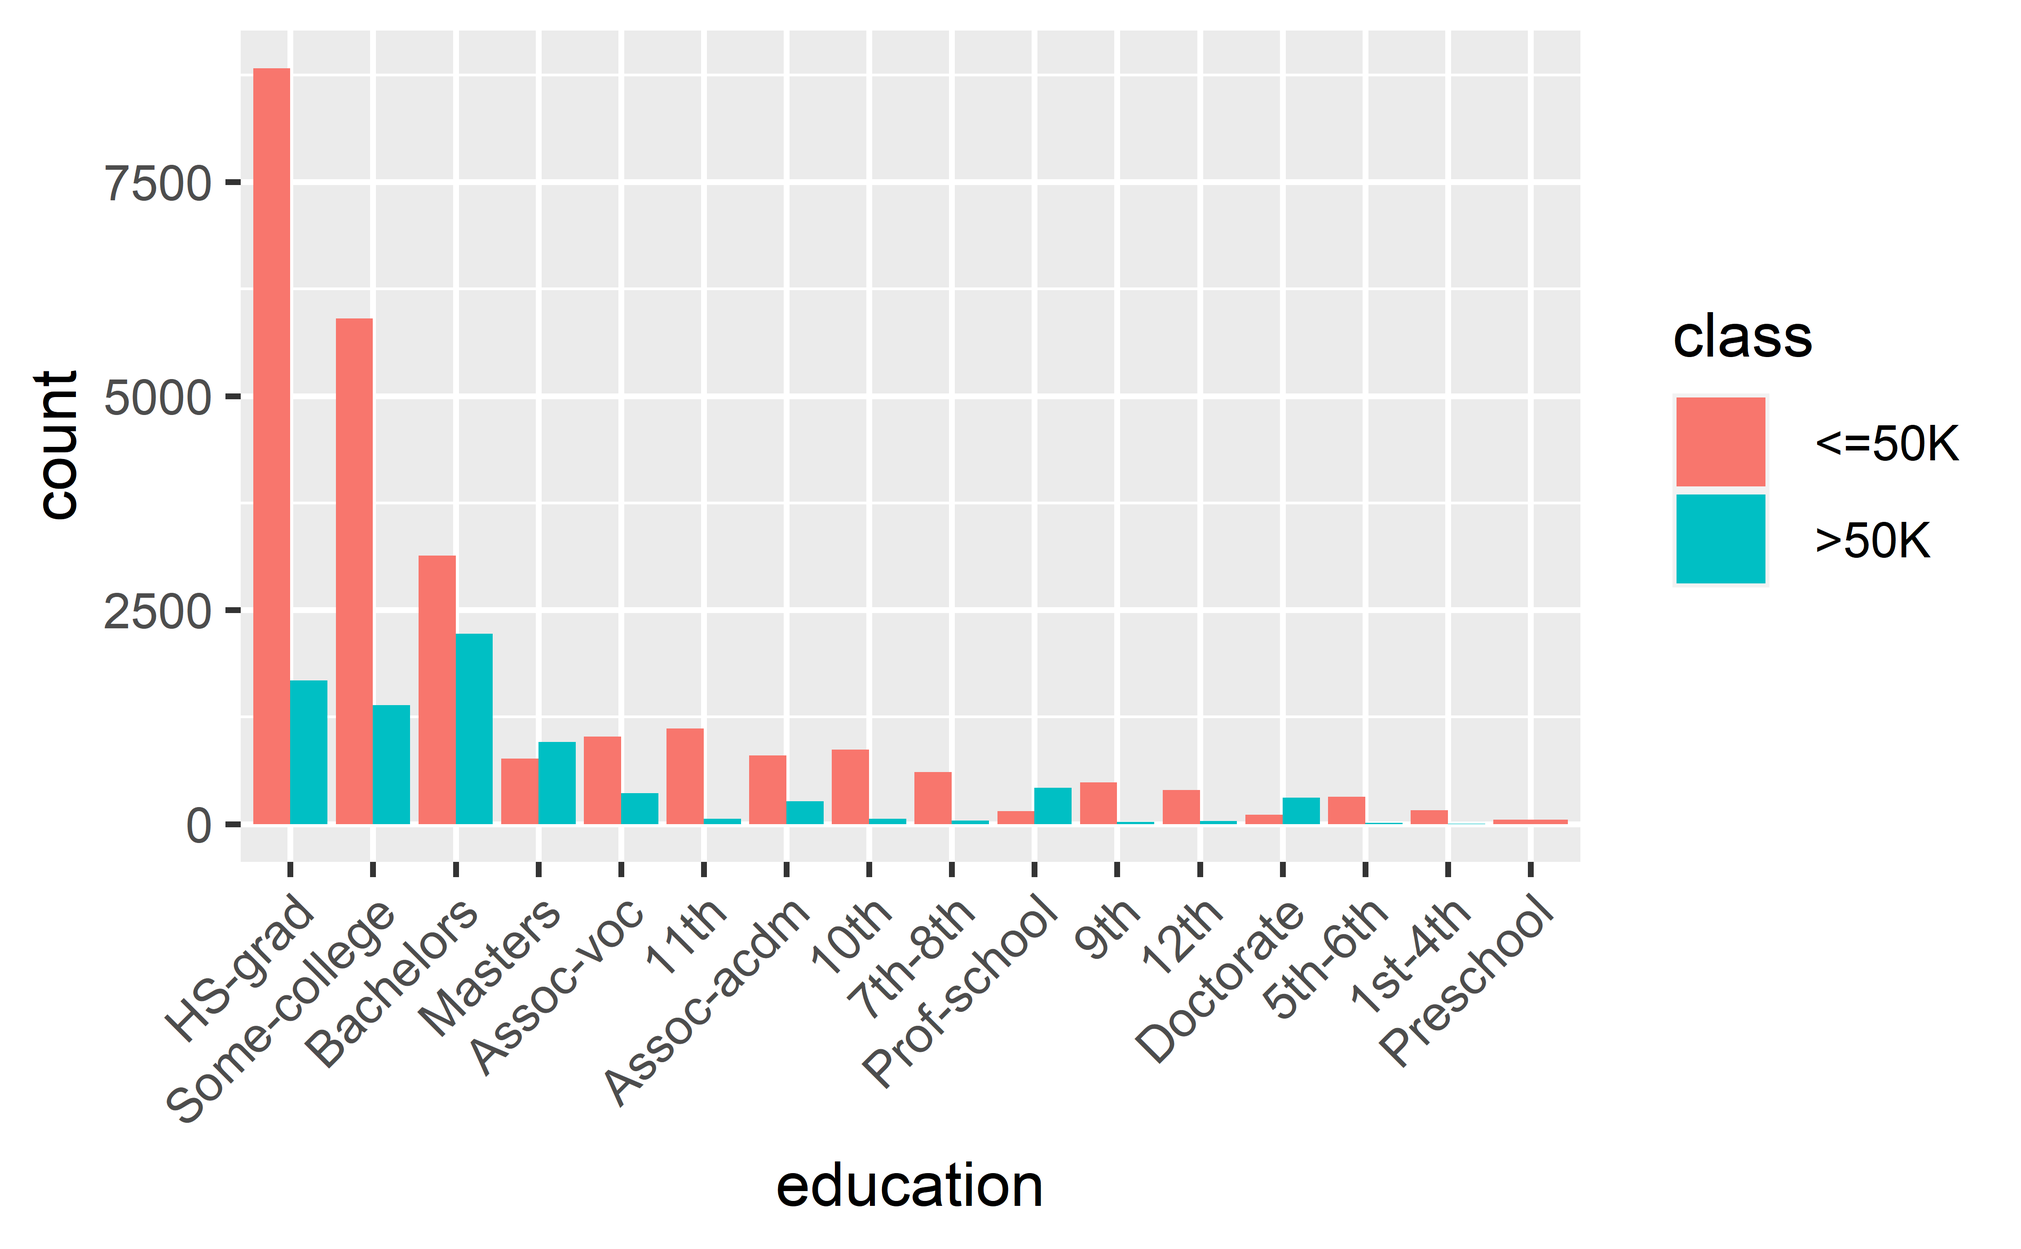
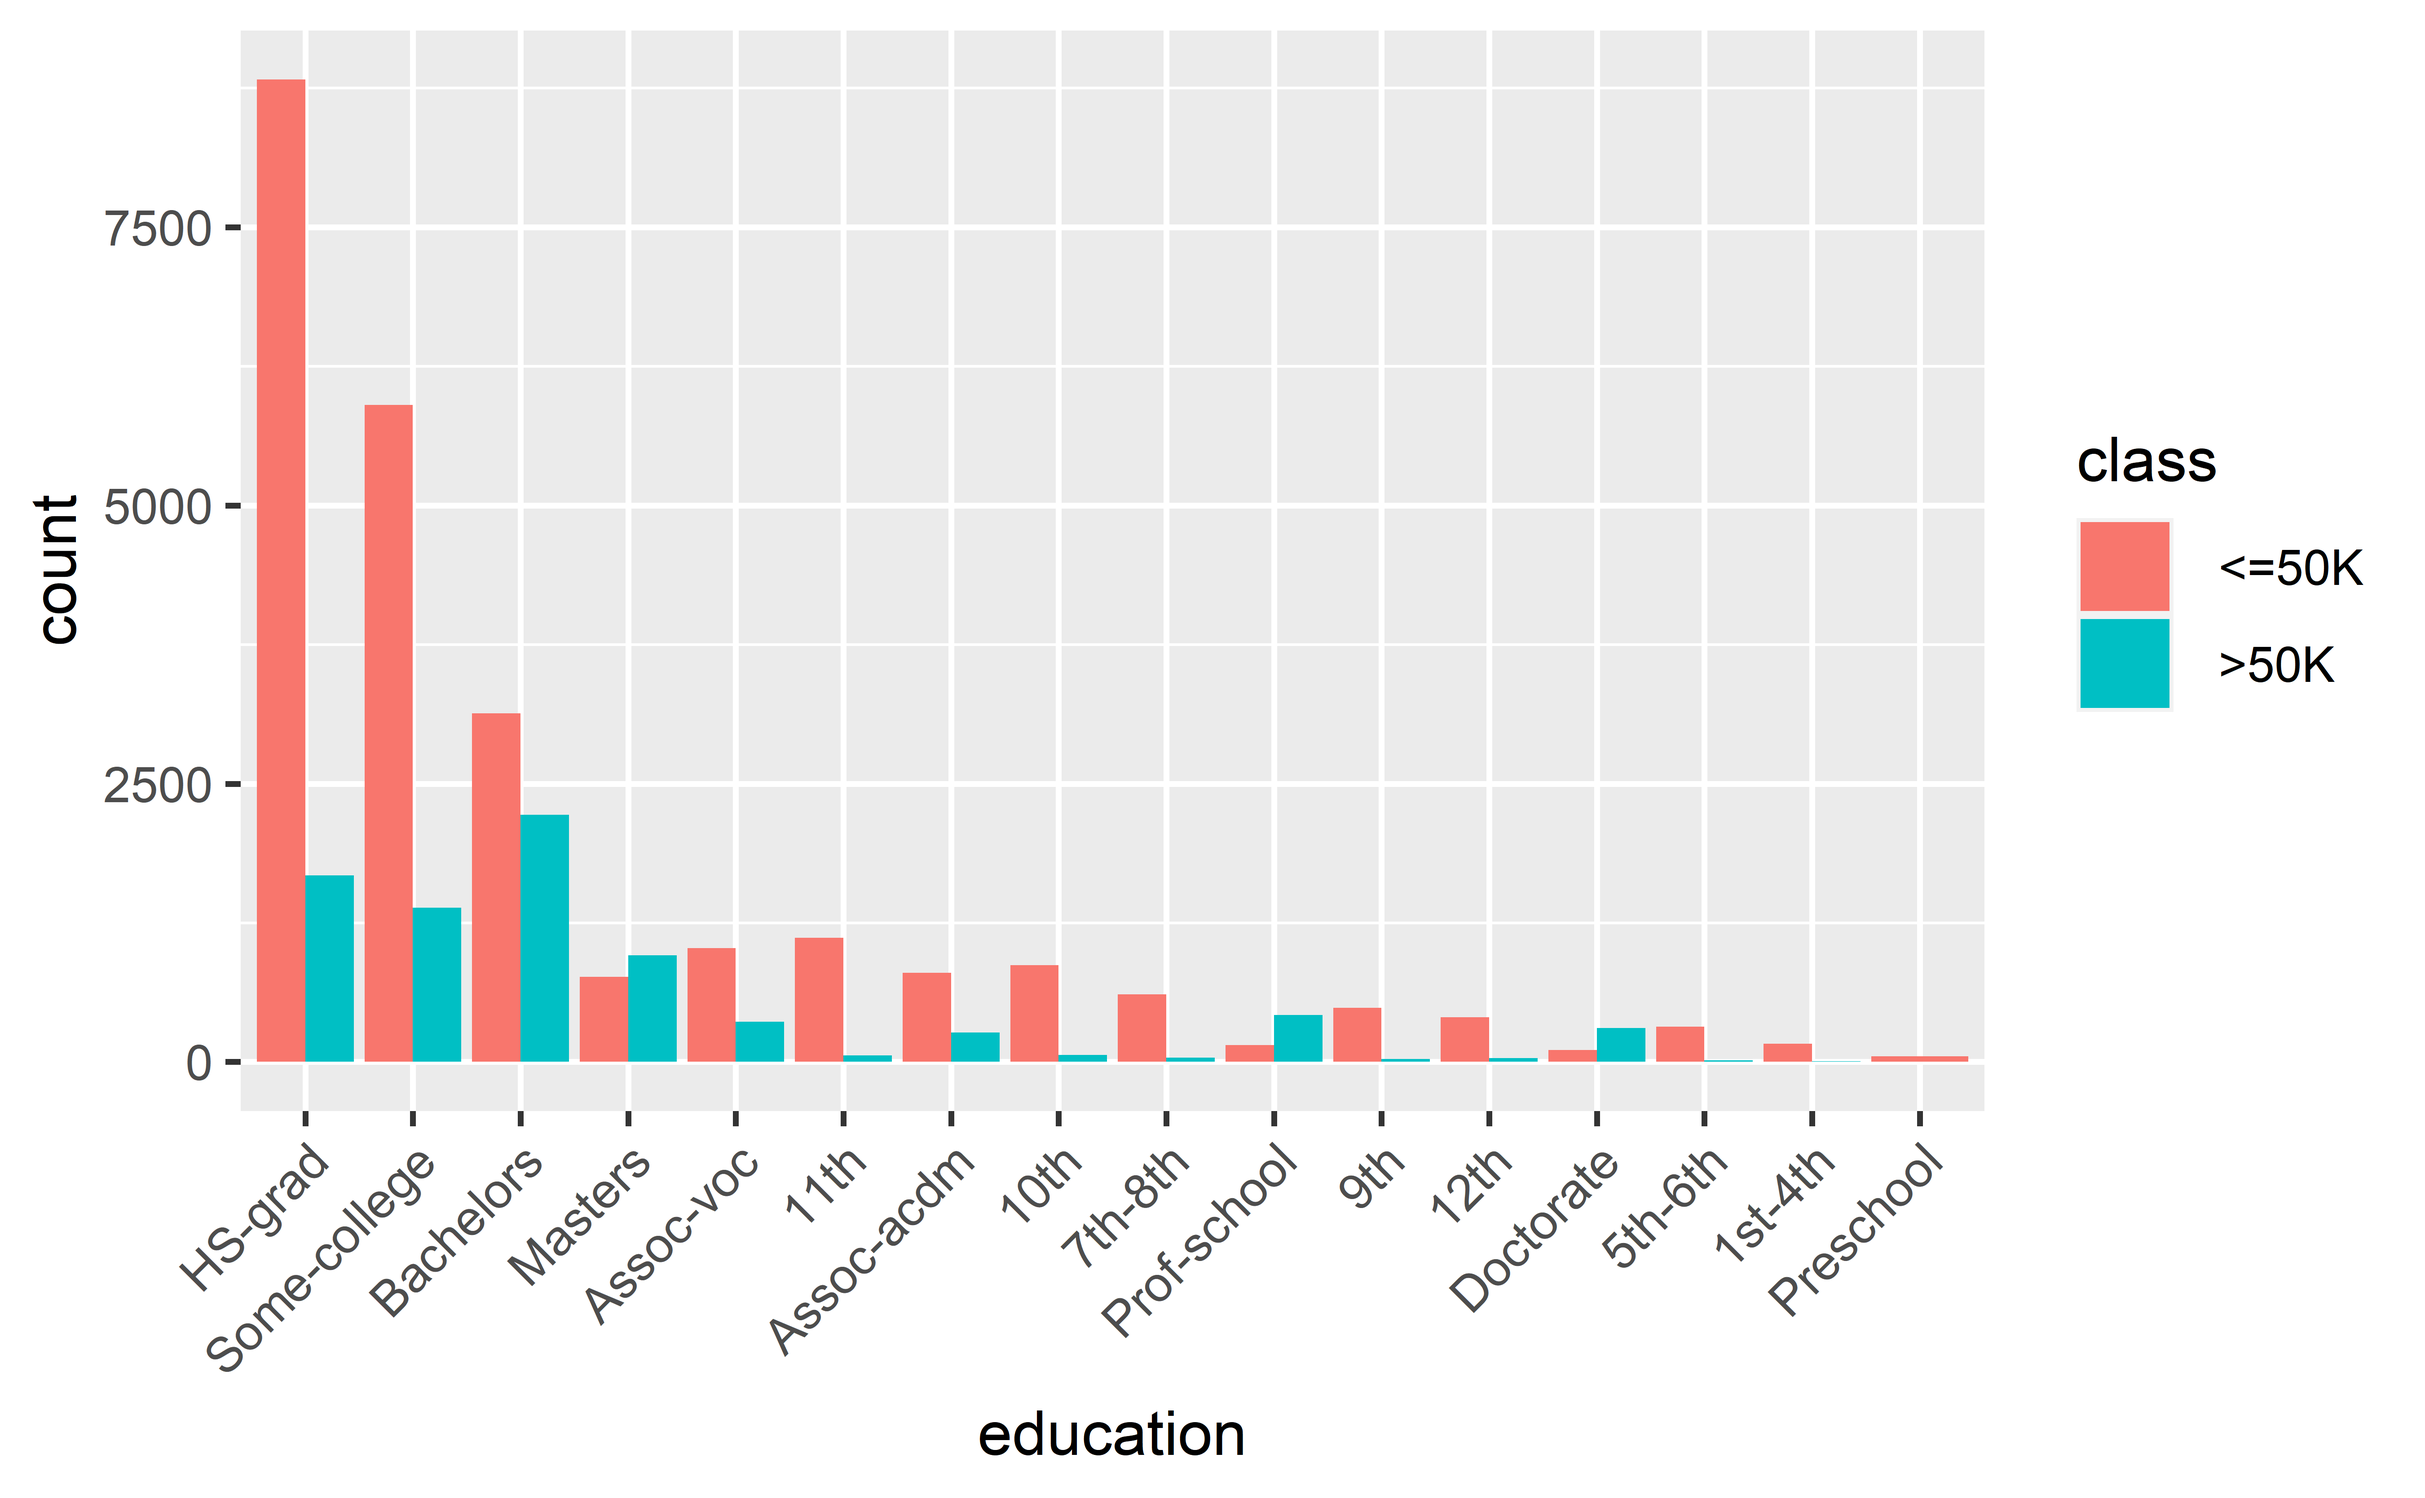
DUNZO

diff --git a/presentation.html b/presentation.html
@@ -227,21 +227,14 @@ class: center, middle
 ---
 ##The relationship between education and class
 It looks as if better degrees tend to have a better blue to red ratio which implies a larger proportion of upper class 
-&lt;img src="presentation_files/figure-html/unnamed-chunk-9-1.png" width="40" /&gt;
+&lt;img src="presentation_files/figure-html/unnamed-chunk-9-1.png" width="80%" /&gt;
 ---
 ## A closer look into those with and without a degree
 
 &lt;img src="presentation_files/figure-html/unnamed-chunk-10-1.png" width="80%" /&gt;
 ---
-##Our final vizualsation is the relationship between race and class
-- 34% of white people are upper class
-- 18% of not white people are upper class.
+##The relationship between race and class
 &lt;img src="presentation_files/figure-html/unnamed-chunk-11-1.png" width="80%" /&gt;
----
-
-class: inverse, center, middle
-
-#Logistic regression
 
 ---
 #Logistic regression results
@@ -292,6 +285,31 @@ We then turned this data into a table to look at the results. Notice that a whit
 ```
 
 
+---
+#Conclusive Results
+Our findings clearly indicate that following demographic has the largest proportion of upper-class citizens:
+
+--
+
+- Older age
+
+--
+
+- Male
+
+--
+
+- White
+
+--
+
+- Having a Degree
+
+--
+
+## A Final Word
+
+What we have quantified in here is alarming and disturbing. However, one aspect that makes this discrimination so difficult to address is that the experiment, as well-designed as it is, cannot send us much signal about why this prejudice is occurring. It is only possible to say that discrimination is happening. Finding strong evidence of racism, sexism and ageism for individual cases is a persistent challenge in enforcing anti-discrimination laws.
 
 ---
 
